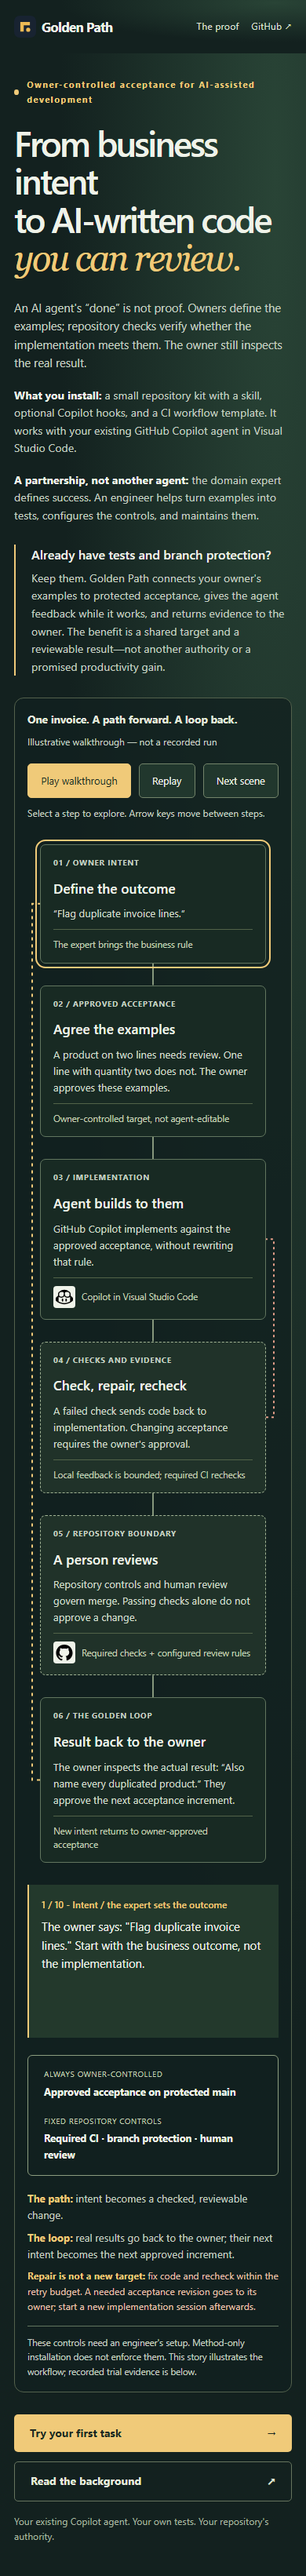
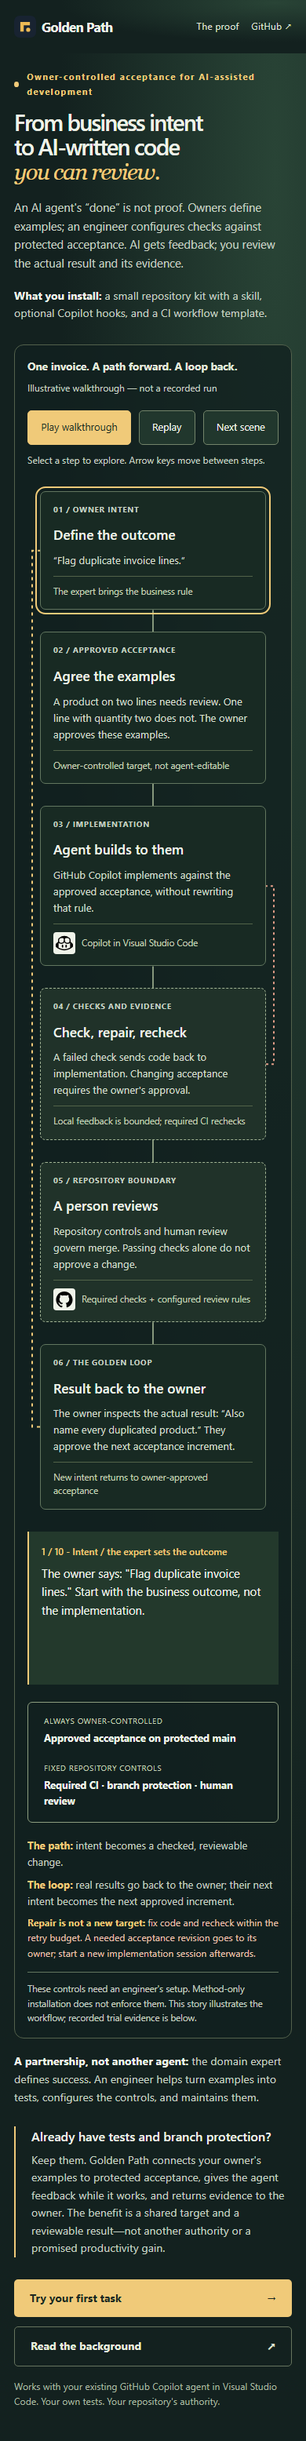
Site: fit the AI headline and initial flow on one screen
Reduce the headline size and place the complete invoice diagram beside the introduction on laptop screens. Preserve readable mobile and static layouts, with first-viewport screenshots and measured browser checks.

diff --git a/site/styles.css b/site/styles.css
@@ -10,16 +10,19 @@ img { max-width: 100%; height: auto; }
 figure, p, h1, h2, h3 { margin: 0; }
 .container { width: min(1140px, calc(100% - 64px)); margin-inline: auto; }
 .hero-shell { background: radial-gradient(ellipse at 90% 5%, #294436 0, transparent 55%), #13211f; color: #eff3e9; }
-.header { display: flex; justify-content: space-between; align-items: center; padding-block: 28px; gap: 20px; }
+.header { display: flex; justify-content: space-between; align-items: center; padding-block: 20px; gap: 20px; }
 .brand { display: inline-flex; align-items: center; gap: 10px; font-weight: 700; text-decoration: none; font-size: 1.2rem; letter-spacing: -.035em; }
 .preview { font-size: .65rem; font-weight: 500; letter-spacing: .08em; text-transform: uppercase; color: #d0d6c8; border: 1px solid #5c6b5c; border-radius: 5px; padding: 1px 6px; margin-left: 3px; }
 nav { display: flex; gap: 28px; font-size: .88rem; }
 nav a { text-decoration: none; color: #dce2d4; }
-.hero { padding-block: 54px 64px; }
+.hero { display: flex; flex-direction: column; padding-block: 24px 48px; }
+.hero-copy { display: contents; }
+.hero .partnership, .hero .adoption-note { order: 1; }
+.hero .actions, .hero .hero-footnote { order: 2; }
 .eyebrow { font-size: .7rem; font-weight: 650; letter-spacing: .12em; line-height: 1.7; }
 .hero .eyebrow { color: var(--gold); display: flex; align-items: center; gap: 10px; }
 .signal { width: 7px; height: 7px; background: var(--gold); border-radius: 100%; }
-h1 { font-size: clamp(2.8rem, 5.8vw, 4.8rem); font-weight: 500; line-height: 1.08; letter-spacing: -.055em; margin: 22px 0 26px; }
+h1 { font-size: clamp(1.8rem, 3vw, 2.4rem); font-weight: 500; line-height: 1.08; letter-spacing: -.055em; margin: 14px 0 18px; }
 h1 em { font-family: Georgia, "Times New Roman", serif; font-weight: 400; color: var(--gold); letter-spacing: -.045em; }
 .hero-intro { font-size: 1.08rem; color: #c5d0c2; max-width: 670px; }
 .what-you-install, .partnership { max-width: 790px; font-size: .9rem; color: #c5d0c2; margin-top: 18px; }
@@ -155,6 +158,24 @@ td span { display: block; font-size: .83rem; color: var(--muted); margin-top: 4p
 .skip-link { position: fixed; z-index: 1; top: -100px; left: 20px; padding: 10px 20px; background: var(--gold); color: #13211f; }
 .skip-link:focus { top: 15px; }
 .sr-only { position: absolute; width: 1px; height: 1px; padding: 0; margin: -1px; overflow: hidden; clip: rect(0, 0, 0, 0); white-space: nowrap; border: 0; }
+@media (min-width: 1100px) {
+  .hero { display: grid; grid-template-columns: minmax(0, 1fr) minmax(0, 2fr); column-gap: 28px; align-items: start; }
+  .hero-copy { display: block; }
+  .hero .eyebrow { align-items: baseline; }
+  .hero .signal { flex-shrink: 0; }
+  .hero-intro { font-size: 1rem; }
+  .workflow { margin-top: 0; padding: 16px; }
+  .workflow figcaption { margin-bottom: 12px; }
+  #story-help { flex: 1 1 220px; }
+  .story-stage { padding: 14px; }
+  .steps { gap: 22px; }
+  .steps li { padding: 10px; }
+  .steps h2 { font-size: 1rem; margin: 8px 0; }
+  .steps p { margin-bottom: 10px; }
+  .step-role { padding-top: 8px; }
+  .story-detail { margin-inline: 14px; }
+  .hero .actions, .hero .hero-footnote { grid-column: 1 / -1; }
+}
 @media (max-width: 900px) {
   .footer { flex-wrap: wrap; }
 }
@@ -171,7 +192,7 @@ td span { display: block; font-size: .83rem; color: var(--muted); margin-top: 4p
   .preview { display: none; }
   .brand { font-size: 1.05rem; gap: 7px; }
   .brand img { width: 28px; }
-  .hero { padding-block: 30px 40px; }
+  .hero { padding-block: 20px 40px; }
   .hero-intro { font-size: .92rem; }
   .desktop-break { display: none; }
   .workflow { padding: 16px; margin-top: 28px; }

diff --git a/site/index.html b/site/index.html
@@ -27,12 +27,14 @@
   <main id="main">
     <div class="hero-shell">
       <section class="container hero" aria-labelledby="promise">
-        <p class="eyebrow"><span class="signal" aria-hidden="true"></span>Owner-controlled acceptance for AI-assisted development</p>
-        <h1 id="promise">From business intent<br>to AI-written code<br><em>you can review.</em></h1>
-        <p class="hero-intro">An AI agent's &ldquo;done&rdquo; is not proof. Owners define the examples; repository checks verify whether the implementation meets them. The owner still inspects the real result.</p>
-        <p class="what-you-install"><strong>What you install:</strong> a small repository kit with a skill, optional Copilot hooks, and a CI workflow template. It works with your existing GitHub Copilot agent in Visual Studio Code.</p>
-        <p class="partnership"><strong>A partnership, not another agent:</strong> the domain expert defines success. An engineer helps turn examples into tests, configures the controls, and maintains them.</p>
-        <div class="adoption-note"><h2>Already have tests and branch protection?</h2><p>Keep them. Golden Path connects your owner's examples to protected acceptance, gives the agent feedback while it works, and returns evidence to the owner. The benefit is a shared target and a reviewable result&mdash;not another authority or a promised productivity gain.</p></div>
+        <div class="hero-copy">
+          <p class="eyebrow"><span class="signal" aria-hidden="true"></span>Owner-controlled acceptance for AI-assisted development</p>
+          <h1 id="promise">From business intent<br>to AI-written code<br><em>you can review.</em></h1>
+          <p class="hero-intro">An AI agent's &ldquo;done&rdquo; is not proof. Owners define examples; an engineer configures checks against protected acceptance. AI gets feedback; you review the actual result and its evidence.</p>
+          <p class="what-you-install"><strong>What you install:</strong> a small repository kit with a skill, optional Copilot hooks, and a CI workflow template.</p>
+          <p class="partnership"><strong>A partnership, not another agent:</strong> the domain expert defines success. An engineer helps turn examples into tests, configures the controls, and maintains them.</p>
+          <div class="adoption-note"><h2>Already have tests and branch protection?</h2><p>Keep them. Golden Path connects your owner's examples to protected acceptance, gives the agent feedback while it works, and returns evidence to the owner. The benefit is a shared target and a reviewable result&mdash;not another authority or a promised productivity gain.</p></div>
+        </div>
 
         <figure class="workflow" id="walkthrough" aria-labelledby="workflow-title">
           <figcaption id="workflow-title"><strong>One invoice. A path forward. A loop back.</strong><span class="illustrative-label">Illustrative walkthrough &mdash; not a recorded run</span></figcaption>
@@ -60,7 +62,7 @@
         </figure>
 
         <div class="actions"><a class="button primary" href="#quickstart">Try your first task <span aria-hidden="true">&rarr;</span></a><a class="button secondary" href="https://github.com/krnese/golden-path/blob/{{SOURCE_REF}}/docs/background.md">Read the background <span aria-hidden="true">&nearr;</span></a></div>
-        <p class="hero-footnote">Your existing Copilot agent. Your own tests. Your repository's authority.</p>
+        <p class="hero-footnote">Works with your existing GitHub Copilot agent in Visual Studio Code. Your own tests. Your repository's authority.</p>
       </section>
     </div>
 

diff --git a/site/README.md b/site/README.md
@@ -54,6 +54,12 @@ Repository acceptance tests under `tests/` are unchanged.
 - Check desktop and mobile for overflow, loaded images, visible focus, keyboard
   order, native controls, no console errors, reduced motion and script-disabled
   fallback. Screenshots in a PR complement, not replace, these behavior checks.
+- At 1366 x 768 and 1440 x 900, the smaller AI headline and all six initial
+  diagram cards must fit without scrolling. Wide screens put the introduction
+  beside the diagram. Narrow screens stack them, with the longer partnership and
+  adoption explanation following the walkthrough; the introduction still
+  explains the partnership and benefit first. At 390 x 844 the headline
+  and first invoice card must fit. Keep full step descriptions and tool glyphs.
 
 Official tool glyphs and their license are documented in
 [the icon attribution](public/icons/README.md). They do not imply vendor endorsement.
@@ -64,6 +70,8 @@ Review captures from the local build: [desktop](../docs/assets/landing-loop-desk
 [mobile](../docs/assets/landing-loop-mobile.png), and
 [recorded evidence detail](../docs/assets/landing-loop-evidence.png).
 These screenshots show the proposed page, not a newly published version.
+First-screen review captures: [1366 x 768 desktop](../docs/assets/landing-first-viewport-desktop.png)
+and [390 x 844 mobile](../docs/assets/landing-first-viewport-mobile.png).
 
 ## Publish on GitHub Pages
 
